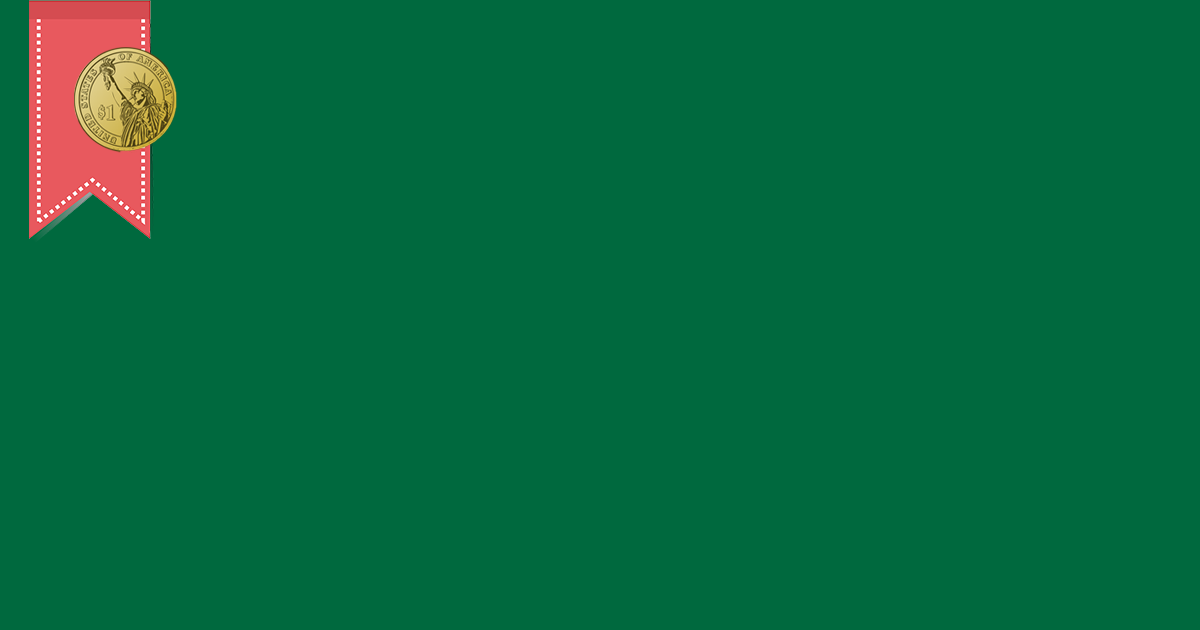
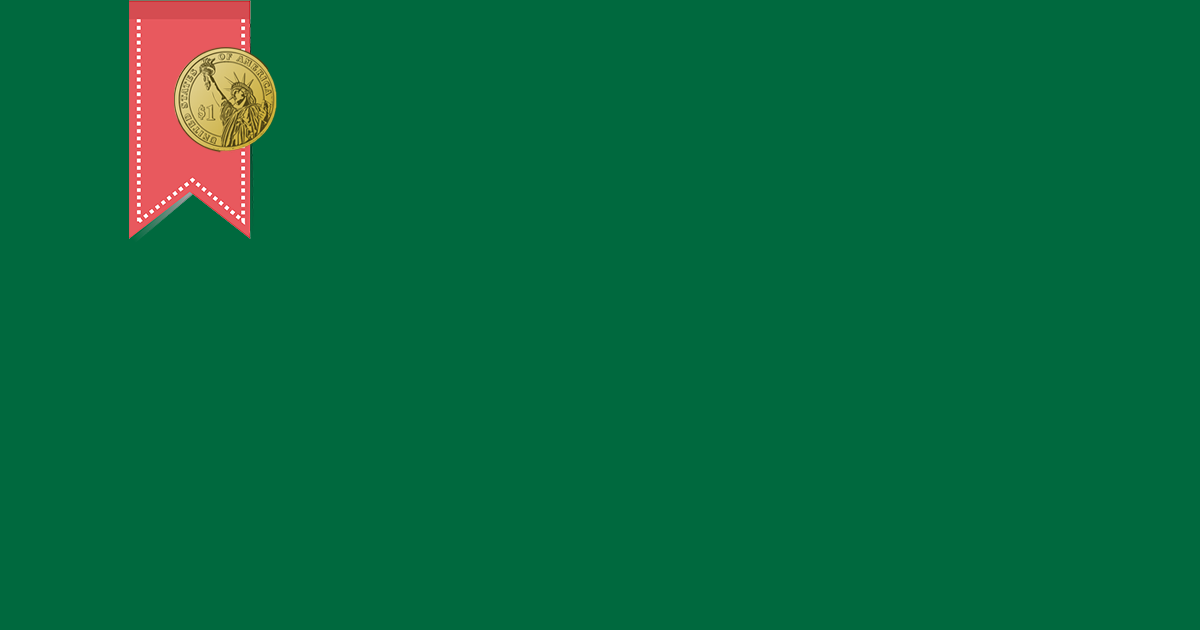
OGPの調整

Changed region(s): [[0.0, 0.0, 0.2467, 0.3921]]

diff --git a/app/controllers/gifts_controller.rb b/app/controllers/gifts_controller.rb
@@ -11,18 +11,21 @@ class GiftsController < ApplicationController
   # GET /gifts/1.json
   def show
     gift = Gift.friendly.find(params[:id])
+    desc = "#{gift.giver_name}さんからメッセージ付きのプレゼントです"
+    title = "#{gift.taker_name}さんへだけの、特別なプレゼントが届きました"
+    img = "#{request.protocol}#{request.domain(2)}/uploads/gift_ogp_image/image/#{gift.slug}.png"
     prepare_meta_tags({
-      title: "#{gift.taker_name}さんへだけの、特別なプレゼントが届きました",
-      description: "#{gift.giver_name}さんからメッセージ付きのプレゼント",
+      title: title,
+      description: desc,
       og: {
-        image: "#{request.protocol}#{request.domain(2)}/uploads/gift_ogp_image/image/#{gift.slug}.png",
-        title: "#{gift.taker_name}さんへだけの、特別なプレゼントが届きました",
-        description: "#{gift.giver_name}さんからメッセージ付きのプレゼント"
+        image: img,
+        title: title,
+        description: desc
       },
       twitter: {
-        title: "#{gift.taker_name}さんへだけの、特別なプレゼントが届きました",
-        description: "#{gift.giver_name}さんからメッセージ付きのプレゼント",
-        image: "#{request.protocol}#{request.domain(2)}/uploads/gift_ogp_image/image/#{gift.slug}.png",
+        title: title,
+        description: desc,
+        image: img,
       }
     })
   end

diff --git a/app/models/gift_ogp_image_generator.rb b/app/models/gift_ogp_image_generator.rb
@@ -35,14 +35,14 @@ class GiftOgpImageGenerator
 
     # 文字の書き込み
     if taker_name.present? && giver_name.present?
-      draw.pointsize = 60
-      draw.annotate(image, 0, 0, 180, 150, "#{taker_name}さんへ" ) {
+      draw.pointsize = 50
+      draw.annotate(image, 0, 0, 280, 150, "#{taker_name}さんへ" ) {
         self.fill = '#fff'
       }
-      draw.annotate(image, 0, 0, 180, 280, "#{giver_name}さんから" ) {
+      draw.annotate(image, 0, 0, 280, 280, "#{giver_name}さんから" ) {
         self.fill = '#fff'
       }
-      draw.annotate(image, 0, 0, 180, 410, "X'masプレゼントが届いてます！" ) {
+      draw.annotate(image, 0, 0, 280, 410, "X'masプレゼントが届いてます！" ) {
         self.fill = '#fff'
       }
     end
